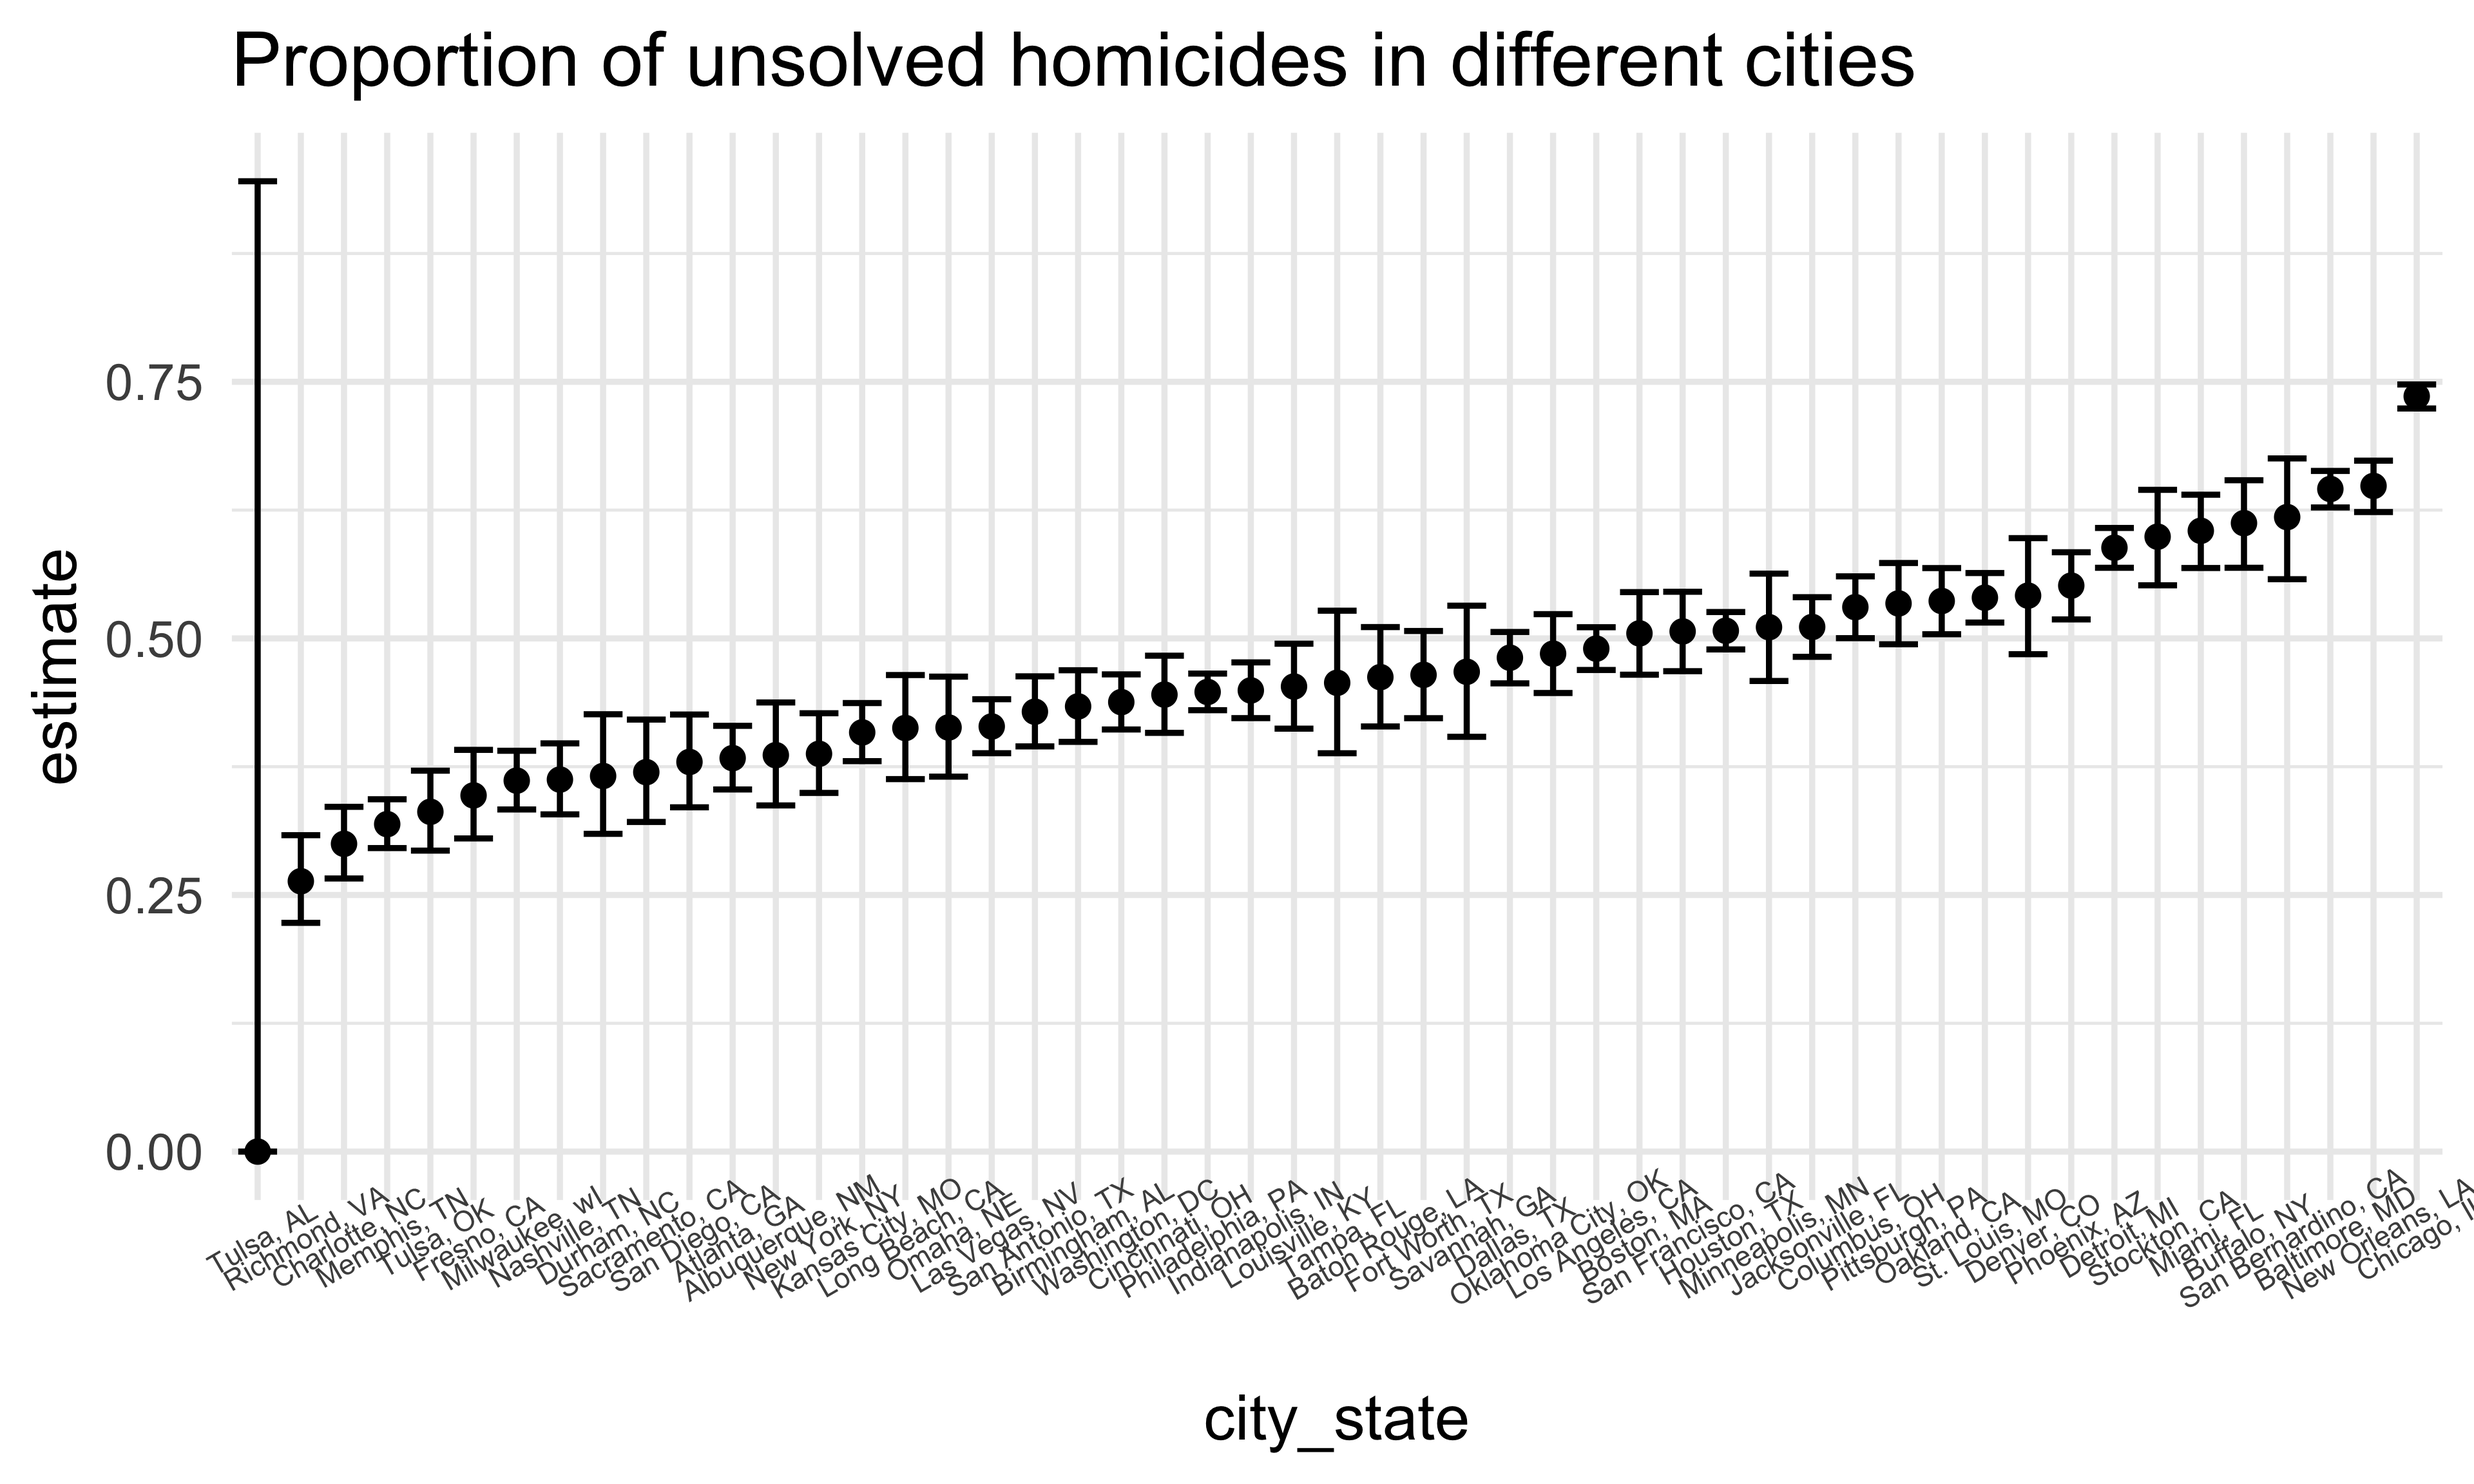
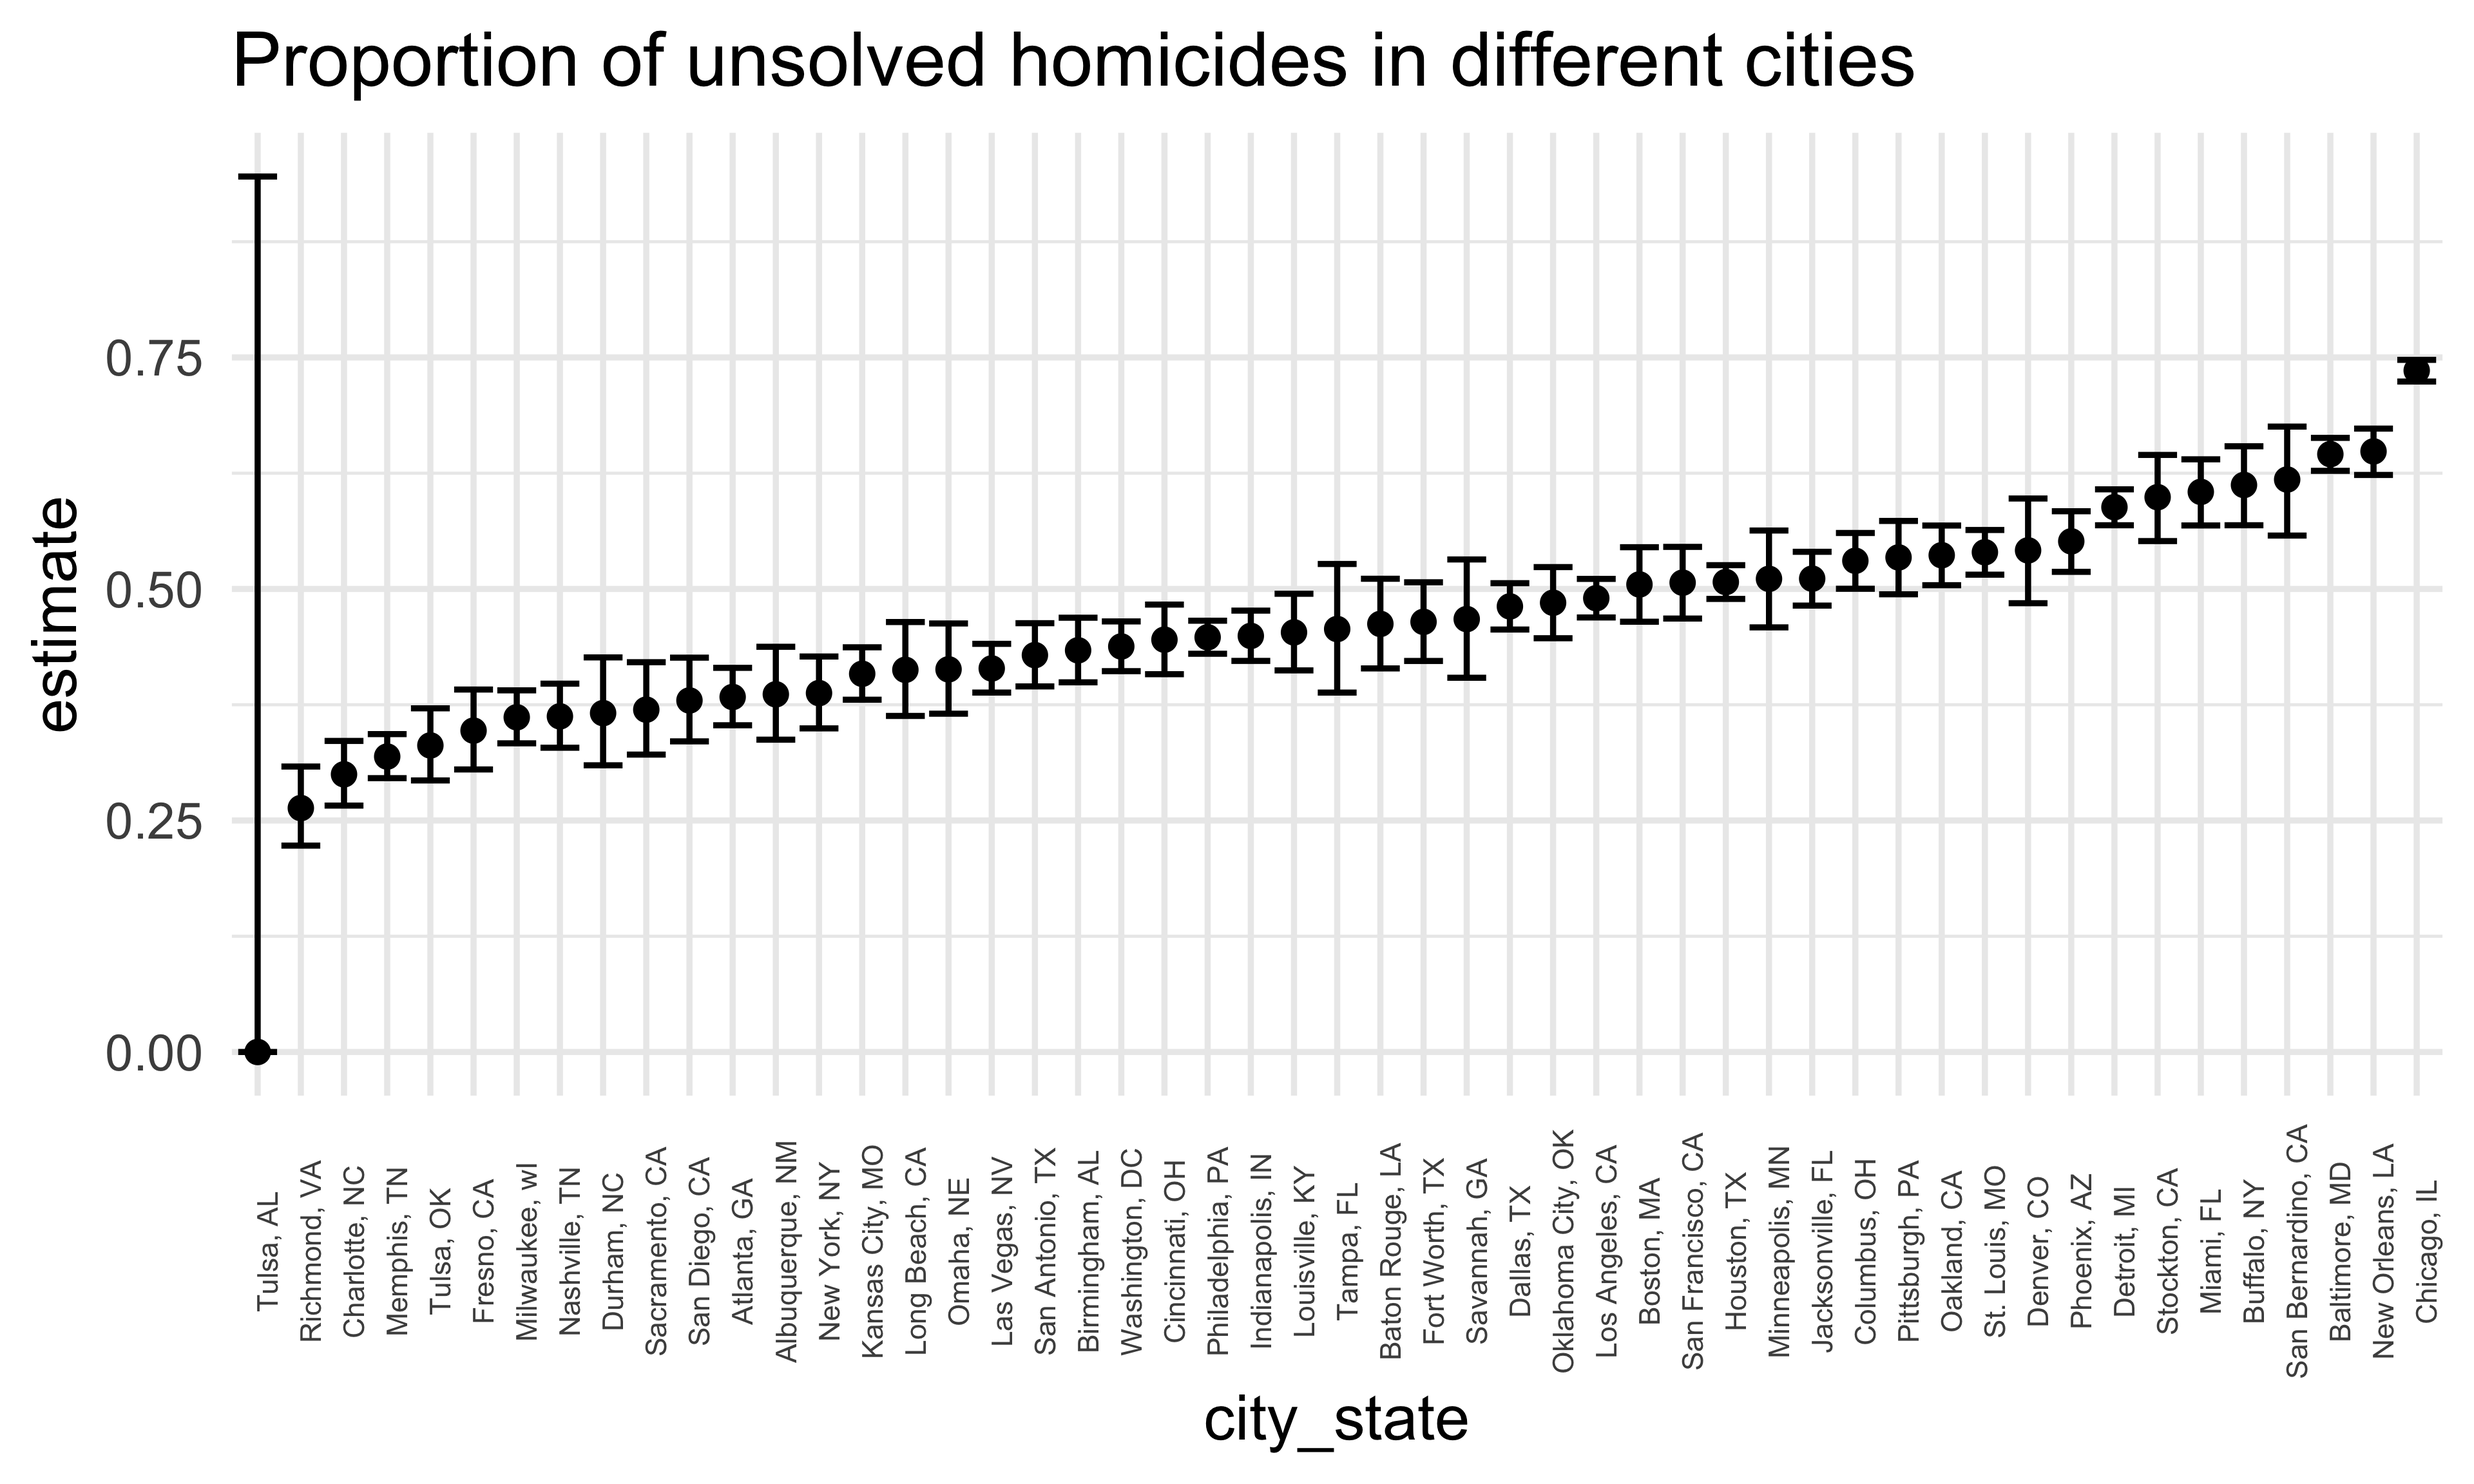
Problem 1 and 2 completed

diff --git a/p8105_hw5_bz2561.md b/p8105_hw5_bz2561.md
@@ -131,7 +131,7 @@ t_test_results =
   unnest(result)
 ```
 
-### plot 1: mu vs. power
+plot 1: $\mu$ vs. power
 
 ``` r
 mu_power = 
@@ -157,7 +157,20 @@ mu_power |>
 
 <img src="p8105_hw5_bz2561_files/figure-gfm/unnamed-chunk-10-1.png" width="90%" />
 
-### plot 2: mu vs. mu_hat
+There is a clear positive association between the effect size (the true
+mean $\mu$) and the power of the one-sample t-test.
+
+When $\mu$ is close to 0, the test rarely rejects the null hypothesis
+because the sample mean does not differ much from 0. As $\mu$ increases,
+the separation between the true mean and the null value grows, making it
+easier for the test statistic to exceed the critical threshold. As a
+result, the probability of rejecting the null hypothesis increases
+steadily.
+
+In short, larger effect sizes produce higher power, approaching 1 when
+the true mean is sufficiently far from 0.
+
+plot 2: $\mu$ vs. $\hat {\mu}$
 
 ``` r
 mu_summary_all <-
@@ -183,7 +196,8 @@ mu_summary |>
   geom_point(aes(y = avg_mu_hat, color = "all mu included")) +
   geom_line(aes(y = avg_mu_hat, color = "all mu included")) +
   geom_point(aes(y = avg_mu_hat_sig, color = "significant mu only")) +
-  geom_line(aes(y = avg_mu_hat_sig, color = "significant mu only")) +
+  geom_line(aes(y = avg_mu_hat_sig, color = "significant mu only"), 
+            linetype = "dashed") +
   scale_x_continuous(breaks = 1:6) +
   labs(
     title = "Relationship between mu and mu_hat", 
@@ -199,6 +213,23 @@ mu_summary |>
 ```
 
 <img src="p8105_hw5_bz2561_files/figure-gfm/unnamed-chunk-12-1.png" width="90%" />
+
+From the plot, the overall average of $\hat{\mu}$ for all samples
+matches the true $\mu$. This is expected, because the sample mean is an
+unbiased estimator of $\mu$, under the normal model.
+
+However, when we restrict attention only to samples where the null
+hypothesis was rejected, the average $\hat{\mu}$ is noticeably higher
+than the true $\mu$, especially for small values of $\mu$ (see $\mu$
+that are less than 2). This happens because rejection at $\alpha= 0.05$
+selects samples where the sample mean deviates far enough from 0 to
+trigger significance. In other words, we are conditioning on a rare
+event that disproportionately includes samples with large positive
+deviations.
+
+This selection creates an upward bias, making $\hat{\mu}$ appear larger
+than the truth. As $\mu$ increases and power approaches 1, almost all
+samples reject the null, so the bias gradually disappears
 
 ## Problem 3 Homicides
 
@@ -314,7 +345,7 @@ prop_test_all|>
   ggplot(aes(x = city_state, y = estimate)) +
   geom_errorbar(aes(ymin = conf.low, ymax = conf.high)) +
     geom_point()+
-  theme(axis.text.x = element_text(size = 5,angle = 30))+
+  theme(axis.text.x = element_text(size = 5,angle = 90))+
   ggtitle("Proportion of unsolved homicides in different cities")
 ```
 
